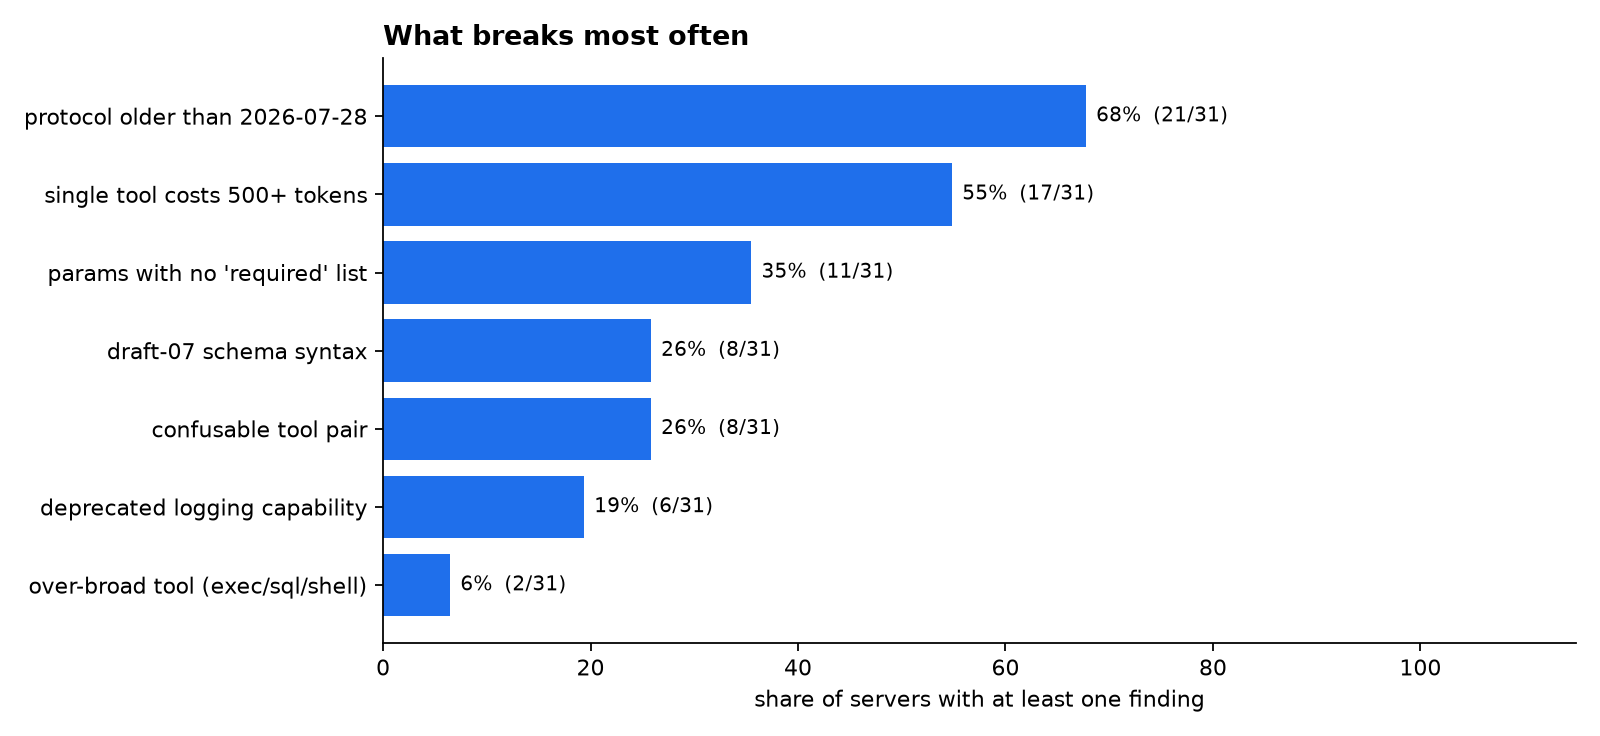
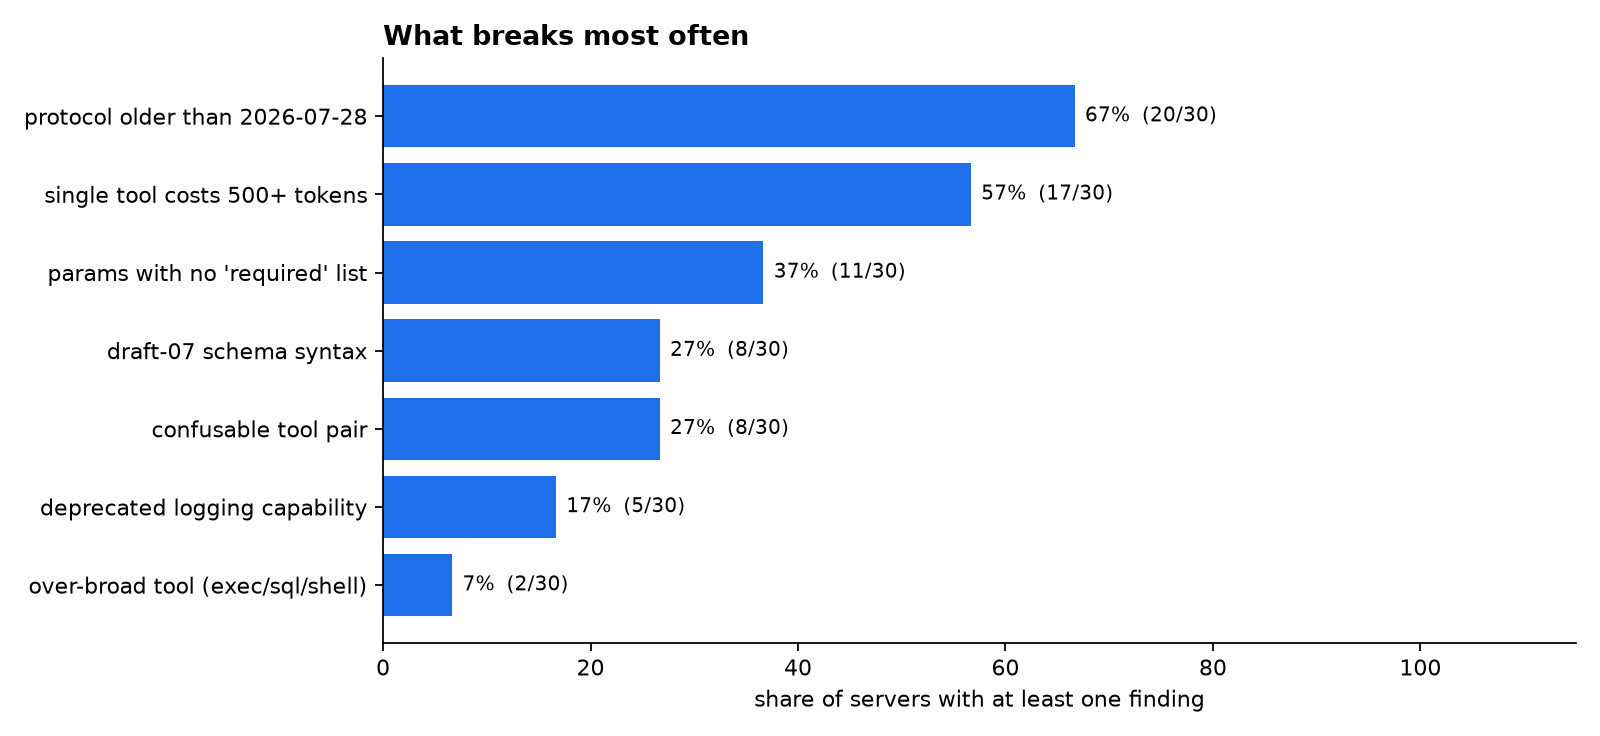
scan: don't rank servers that list no tools

diff --git a/docs/scan-2026-11/aggregate.py b/docs/scan-2026-11/aggregate.py
@@ -6,7 +6,9 @@ import matplotlib.pyplot as plt
 
 HERE = pathlib.Path(__file__).parent
 recs = [json.loads(p.read_text()) for p in sorted((HERE / "raw").glob("*.json"))]
-ok = [r for r in recs if r["ok"]]
+# a server that answers tools/list with zero tools usually needs real credentials first; don't rank it
+empty = [r for r in recs if r["ok"] and not re.search(r"\((?!0 tools)\d+ tools\)", " ".join(f["message"] for f in r["report"]["findings"]))]
+ok = [r for r in recs if r["ok"] and r not in empty]
 LABELS = {"MV001": "tool with no description", "MV002": "duplicate tool name", "MV010": "params with no 'required' list", "MV011": "untyped params",
           "MV020": "secret in tool metadata", "MV021": "over-broad tool (exec/sql/shell)", "MV022": "model-directed text in description",
           "MV030": "single tool costs 500+ tokens", "MV040": "confusable tool pair", "MV050": "protocol older than 2026-07-28",
@@ -55,7 +57,7 @@ ax.set_title("What breaks most often", loc="left", fontsize=12, fontweight="bold
 for s in ("top", "right"): ax.spines[s].set_visible(False)
 fig.tight_layout(); fig.savefig(HERE / "problems.png"); plt.close(fig)
 
-failed = [r for r in recs if not r["ok"]]
+failed = [r for r in recs if not r["ok"]] + [dict(r, err="listed no tools") for r in empty]
 lines = [f"# MCP server scan, November 2026", "",
          f"{len(recs)} popular MCP servers checked with `mcpvitals 0.3.0` on 2026-11-10; {n} started and answered `tools/list`.",
          "Each ran in a throwaway Docker container with placeholder credentials, so no real accounts were touched. Rerun any row with `uvx mcpvitals check \"<command>\"`.",
@@ -68,7 +70,7 @@ for x in rows:
 lines += ["", "## Most common findings", ""] + [f"- **{LABELS[c]}** ({c}): {k} of {n} servers" for c, k in servers_with.most_common() if c in LABELS]
 if failed:
     lines += ["", "## Did not start in the sandbox", "", "Usually because the server needs a real account or a browser at startup. Not a judgement on the server.", ""]
-    lines += [f'- {r["name"]}: {"timed out" if r["err"] == "timeout" else "exited before tools/list"}' for r in failed]
+    lines += [f'- {r["name"]}: {"timed out" if r["err"] == "timeout" else "started but listed no tools (needs real credentials)" if r["err"] == "listed no tools" else "exited before tools/list"}' for r in failed]
 toks = [x["tokens"] for x in rows if x["tokens"]]
 if toks:
     lines += ["", f"Median context cost to connect: ~{sorted(toks)[len(toks)//2]} tokens; heaviest: ~{max(toks)} tokens."]

diff --git a/docs/scan-2026-11/README.md b/docs/scan-2026-11/README.md
@@ -1,6 +1,6 @@
 # MCP server scan, November 2026
 
-42 popular MCP servers checked with `mcpvitals 0.3.0` on 2026-11-10; 31 started and answered `tools/list`.
+42 popular MCP servers checked with `mcpvitals 0.3.0` on 2026-11-10; 30 started and answered `tools/list`.
 Each ran in a throwaway Docker container with placeholder credentials, so no real accounts were touched. Rerun any row with `uvx mcpvitals check "<command>"`.
 Scores are heuristics: a low score is a list of things worth a look (context cost, confusable tools, spec drift), not a claim that a server is broken or unsafe.
 
@@ -16,7 +16,6 @@ Scores are heuristics: a low score is a list of things worth a look (context cos
 | git (reference) | 100 (A) | 14 | 1459 | 2026-07-28 | MV031 |
 | MarkItDown (Microsoft) | 100 (A) | 1 | 60 | 2026-07-28 | MV031 |
 | memory (reference) | 100 (A) | 9 | 1066 | 2025-11-25 | MV055x9, MV050, MV056, MV031 |
-| Atlassian (community) | 95 (A) | - | - | 2025-11-25 | MV050, MV051, MV056, MV031 |
 | DuckDuckGo | 95 (A) | 3 | 1020 | 2026-07-28 | MV030, MV031 |
 | Excel | 95 (A) | 6 | 1269 | 2025-03-26 | MV050, MV056, MV030, MV031 |
 | Postgres (archived ref) | 95 (A) | 1 | 24 | 2024-11-05 | MV050, MV056, MV010, MV031 |
@@ -44,17 +43,17 @@ Scores are heuristics: a low score is a list of things worth a look (context cos
 
 ## Most common findings
 
-- **protocol older than 2026-07-28** (MV050): 21 of 31 servers
-- **only the legacy initialize handshake** (MV056): 21 of 31 servers
-- **single tool costs 500+ tokens** (MV030): 17 of 31 servers
-- **params with no 'required' list** (MV010): 11 of 31 servers
-- **draft-07 schema syntax** (MV055): 8 of 31 servers
-- **confusable tool pair** (MV040): 8 of 31 servers
-- **deprecated logging capability** (MV051): 6 of 31 servers
-- **over-broad tool (exec/sql/shell)** (MV021): 2 of 31 servers
-- **core 'tasks' capability** (MV052): 1 of 31 servers
-- **model-directed text in description** (MV022): 1 of 31 servers
-- **untyped params** (MV011): 1 of 31 servers
+- **protocol older than 2026-07-28** (MV050): 20 of 30 servers
+- **only the legacy initialize handshake** (MV056): 20 of 30 servers
+- **single tool costs 500+ tokens** (MV030): 17 of 30 servers
+- **params with no 'required' list** (MV010): 11 of 30 servers
+- **draft-07 schema syntax** (MV055): 8 of 30 servers
+- **confusable tool pair** (MV040): 8 of 30 servers
+- **deprecated logging capability** (MV051): 5 of 30 servers
+- **over-broad tool (exec/sql/shell)** (MV021): 2 of 30 servers
+- **core 'tasks' capability** (MV052): 1 of 30 servers
+- **model-directed text in description** (MV022): 1 of 30 servers
+- **untyped params** (MV011): 1 of 30 servers
 
 ## Did not start in the sandbox
 
@@ -71,5 +70,6 @@ Usually because the server needs a real account or a browser at startup. Not a j
 - SQLite: exited before tools/list
 - Stripe: exited before tools/list
 - Supabase: exited before tools/list
+- Atlassian (community): started but listed no tools (needs real credentials)
 
 Median context cost to connect: ~1459 tokens; heaviest: ~19775 tokens.

diff --git a/README.md b/README.md
@@ -12,7 +12,7 @@
 </div>
 
 > [!NOTE]
-> We ran mcpvitals on 31 popular MCP servers in November 2026 ([full results](docs/scan-2026-11/)). **21 of 31 still only speak the pre-2026-07-28 handshake**, 17 ship at least one tool that costs 500+ tokens to expose, and the heaviest costs ~19.8k tokens of context before you type anything. Registries show none of this, so a heavy or confusing server looks identical to a good one. `mcpvitals` is the checkup.
+> We ran mcpvitals on 30 popular MCP servers in November 2026 ([full results](docs/scan-2026-11/)). **20 of 30 still only speak the pre-2026-07-28 handshake**, 17 ship at least one tool that costs 500+ tokens to expose, and the heaviest costs ~19.8k tokens of context before you type anything. Registries show none of this, so a heavy or confusing server looks identical to a good one. `mcpvitals` is the checkup.
 
 ## 60-second start
 
@@ -57,7 +57,7 @@ The first run of an `npx`/`uvx` server includes its download, which can take a m
 
 ![What breaks most often](docs/scan-2026-11/problems.png)
 
-31 popular servers, each run in a throwaway Docker container with placeholder credentials. Per-server scores, token costs and raw JSON are in [docs/scan-2026-11](docs/scan-2026-11/), along with the scripts to rerun it.
+30 popular servers, each run in a throwaway Docker container with placeholder credentials. Per-server scores, token costs and raw JSON are in [docs/scan-2026-11](docs/scan-2026-11/), along with the scripts to rerun it.
 
 ## Add the health badge to your README
 
